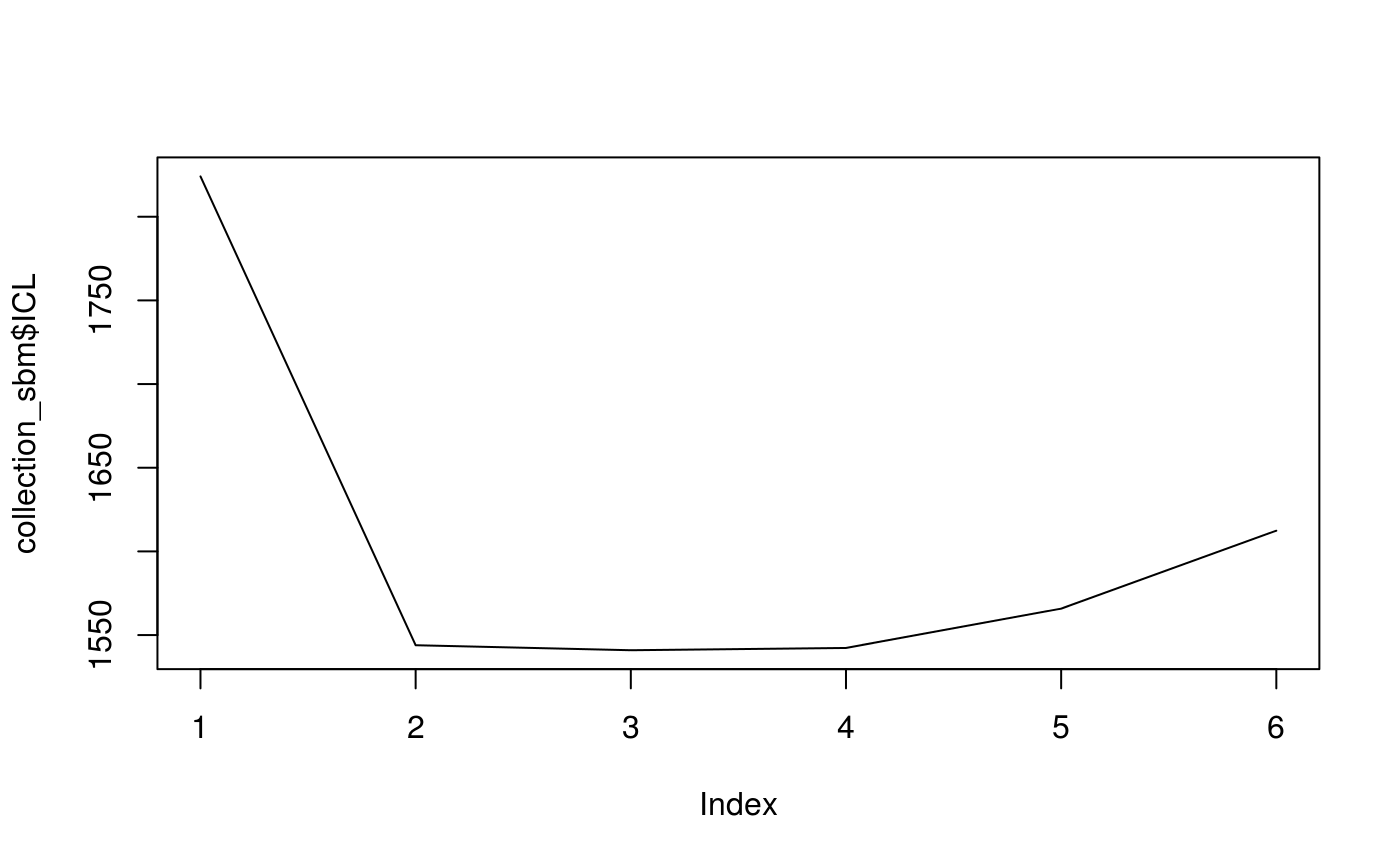
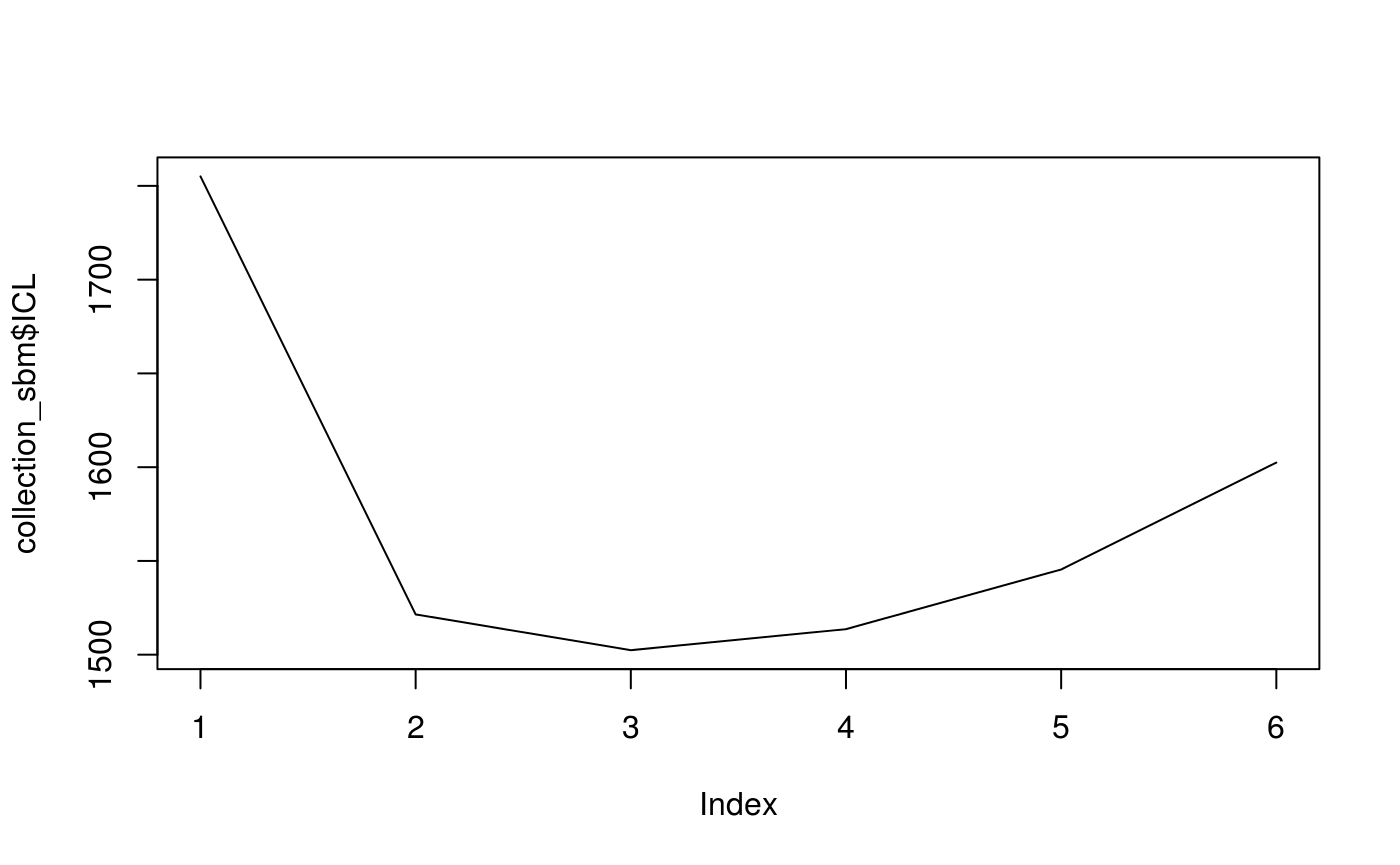
Deploy jchiquet/missSBM to github.com/jchiquet/missSBM.git:gh-pages

diff --git a/articles/introdution-to-misssbm.html b/articles/introdution-to-misssbm.html
@@ -86,7 +86,7 @@
       <h1>Introduction to missSBM</h1>
                         <h4 class="author">missSBM team</h4>
             
-            <h4 class="date">2019-03-28</h4>
+            <h4 class="date">2019-04-02</h4>
       
       <small class="dont-index">Source: <a href="https://github.com/jchiquet/missSBM/blob/master/vignettes/introdution-to-misssbm.Rmd"><code>vignettes/introdution-to-misssbm.Rmd</code></a></small>
       <div class="hidden name"><code>introdution-to-misssbm.Rmd</code></div>
@@ -175,7 +175,7 @@
 <div class="sourceCode" id="cb19"><pre class="sourceCode r"><code class="sourceCode r"><a class="sourceLine" id="cb19-1" data-line-number="1"><span class="kw"><a href="https://www.rdocumentation.org/packages/base/topics/table">table</a></span>(collection_sbm<span class="op">$</span>bestModel<span class="op">$</span>fittedSBM<span class="op">$</span>memberships)</a></code></pre></div>
 <pre><code>## 
 ##  1  2  3 
-## 35 15 42</code></pre>
+## 10 74  8</code></pre>
 <p>We compare with clusterings obtained with the fully observed network.</p>
 <div class="sourceCode" id="cb21"><pre class="sourceCode r"><code class="sourceCode r"><a class="sourceLine" id="cb21-1" data-line-number="1">collection_sbm_full &lt;-<span class="st"> </span>war_graphs<span class="op">$</span>beligerent <span class="op">%&gt;%</span><span class="st"> </span></a>
 <a class="sourceLine" id="cb21-2" data-line-number="2"><span class="st">  </span><span class="kw"><a href="https://www.rdocumentation.org/packages/igraph/topics/as_adjacency_matrix">as_adj</a></span>(<span class="dt">sparse =</span> <span class="ot">FALSE</span>) <span class="op">%&gt;%</span><span class="st"> </span></a>
@@ -185,7 +185,7 @@
 ##  Adjusting Variational EM for Stochastic Block Model
 ## 
 ##  Imputation assumes a 'node' network-sampling process</code></pre>
-<div class="sourceCode" id="cb23"><pre class="sourceCode r"><code class="sourceCode r"><a class="sourceLine" id="cb23-1" data-line-number="1"><span class="kw"><a href="../reference/smooth.html">smooth</a></span>(collection_sbm_full, <span class="st">"both"</span>, <span class="dt">iterates =</span> <span class="dv">2</span>)</a></code></pre></div>
+<div class="sourceCode" id="cb23"><pre class="sourceCode r"><code class="sourceCode r"><a class="sourceLine" id="cb23-1" data-line-number="1"><span class="kw"><a href="../reference/smooth.html">smooth</a></span>(collection_sbm_full, <span class="st">"both"</span>, <span class="dt">split =</span> <span class="st">"spectral"</span>, <span class="dt">iterates =</span> <span class="dv">2</span>)</a></code></pre></div>
 <pre><code>## 
 ##  Smoothing ICL
 ##    Going forward +++++
@@ -214,24 +214,23 @@ plot(collection_sbm_full2$ICL)
 <a class="sourceLine" id="cb27-4" data-line-number="4">  )</a></code></pre></div>
 <pre><code>##    
 ##      1  2  3  4
-##   1  0  0 35  0
-##   2  0 10  0  5
-##   3 29  0 13  0</code></pre>
-<!-- ```{r blockmodelscomparison} -->
-<!-- library(blockmodels) -->
-<!-- modsym <- BM_bernoulli("SBM_sym",as.matrix(get.adjacency(war_graphs$beligerent)),verbosity=0,plotting="") -->
-<!-- modsym$estimate() -->
-<!-- plot(modsym$ICL) -->
-<!-- mod <- BM_bernoulli("SBM",as.matrix(get.adjacency(war_graphs$beligerent)),verbosity=0,plotting="") -->
-<!-- mod$estimate() -->
-<!-- plot(mod$ICL) -->
-<!-- ``` -->
+##   1  5  0  5  0
+##   2 24 48  1  1
+##   3  0  0  4  4</code></pre>
+<div class="sourceCode" id="cb29"><pre class="sourceCode r"><code class="sourceCode r"><a class="sourceLine" id="cb29-1" data-line-number="1"><span class="kw"><a href="https://www.rdocumentation.org/packages/base/topics/library">library</a></span>(blockmodels)</a></code></pre></div>
+<pre><code>## Loading required package: Rcpp</code></pre>
+<pre><code>## Loading required package: parallel</code></pre>
+<pre><code>## Loading required package: digest</code></pre>
+<div class="sourceCode" id="cb33"><pre class="sourceCode r"><code class="sourceCode r"><a class="sourceLine" id="cb33-1" data-line-number="1">modsym &lt;-<span class="st"> </span><span class="kw"><a href="https://www.rdocumentation.org/packages/blockmodels/topics/BM_bernoulli">BM_bernoulli</a></span>(<span class="st">"SBM_sym"</span>,<span class="kw"><a href="https://www.rdocumentation.org/packages/base/topics/matrix">as.matrix</a></span>(<span class="kw"><a href="https://www.rdocumentation.org/packages/igraph/topics/as_adjacency_matrix">get.adjacency</a></span>(war_graphs<span class="op">$</span>beligerent)),<span class="dt">verbosity=</span><span class="dv">0</span>,<span class="dt">plotting=</span><span class="st">""</span>)</a>
+<a class="sourceLine" id="cb33-2" data-line-number="2">modsym<span class="op">$</span><span class="kw"><a href="../reference/estimate.html">estimate</a></span>()</a></code></pre></div>
+<div class="sourceCode" id="cb34"><pre class="sourceCode r"><code class="sourceCode r"><a class="sourceLine" id="cb34-1" data-line-number="1"><span class="kw"><a href="https://www.rdocumentation.org/packages/graphics/topics/plot">plot</a></span>(modsym<span class="op">$</span>ICL)</a></code></pre></div>
+<p><img src="introdution-to-misssbm_files/figure-html/blockmodelscomparison-1.png" width="700"></p>
 </div>
 <div id="taking-covariates-into-account" class="section level3">
 <h3 class="hasAnchor">
 <a href="#taking-covariates-into-account" class="anchor"></a>Taking covariates into account</h3>
-<div class="sourceCode" id="cb29"><pre class="sourceCode r"><code class="sourceCode r"><a class="sourceLine" id="cb29-1" data-line-number="1">mil =<span class="st"> </span><span class="kw"><a href="https://www.rdocumentation.org/packages/base/topics/load">load</a></span>(<span class="st">"../inst/covmilitarypower.Rdata"</span>)</a>
-<a class="sourceLine" id="cb29-2" data-line-number="2"><span class="kw"><a href="https://www.rdocumentation.org/packages/base/topics/cbind">cbind</a></span>(belmilpow,<span class="kw"><a href="https://www.rdocumentation.org/packages/igraph/topics/vertex_attr">get.vertex.attribute</a></span>(war_graphs<span class="op">$</span>beligerent)<span class="op">$</span>name) <span class="co">#  get military power for countries in beligerent network</span></a></code></pre></div>
+<div class="sourceCode" id="cb35"><pre class="sourceCode r"><code class="sourceCode r"><a class="sourceLine" id="cb35-1" data-line-number="1">mil =<span class="st"> </span><span class="kw"><a href="https://www.rdocumentation.org/packages/base/topics/load">load</a></span>(<span class="st">"../inst/covmilitarypower.Rdata"</span>)</a>
+<a class="sourceLine" id="cb35-2" data-line-number="2"><span class="kw"><a href="https://www.rdocumentation.org/packages/base/topics/cbind">cbind</a></span>(belmilpow,<span class="kw"><a href="https://www.rdocumentation.org/packages/igraph/topics/vertex_attr">get.vertex.attribute</a></span>(war_graphs<span class="op">$</span>beligerent)<span class="op">$</span>name) <span class="co">#  get military power for countries in beligerent network</span></a></code></pre></div>
 <pre><code>##       belmilpow                                                
 ##  [1,] "0.158091569035533"    "United States of America"        
 ##  [2,] "0.0115406"            "Canada"                          
@@ -325,7 +324,7 @@ plot(collection_sbm_full2$ICL)
 ## [90,] "0.00441002835820896"  "Philippines"                     
 ## [91,] "0.00750758817204301"  "Australia"                       
 ## [92,] "0.000803283870967742" "New Zealand"</code></pre>
-<div class="sourceCode" id="cb31"><pre class="sourceCode r"><code class="sourceCode r"><a class="sourceLine" id="cb31-1" data-line-number="1"><span class="kw"><a href="https://www.rdocumentation.org/packages/base/topics/cbind">cbind</a></span>(allmilpow,<span class="kw"><a href="https://www.rdocumentation.org/packages/igraph/topics/vertex_attr">get.vertex.attribute</a></span>(war_graphs<span class="op">$</span>alliance)<span class="op">$</span>name) <span class="co">#  get military power for countries in alliance network</span></a></code></pre></div>
+<div class="sourceCode" id="cb37"><pre class="sourceCode r"><code class="sourceCode r"><a class="sourceLine" id="cb37-1" data-line-number="1"><span class="kw"><a href="https://www.rdocumentation.org/packages/base/topics/cbind">cbind</a></span>(allmilpow,<span class="kw"><a href="https://www.rdocumentation.org/packages/igraph/topics/vertex_attr">get.vertex.attribute</a></span>(war_graphs<span class="op">$</span>alliance)<span class="op">$</span>name) <span class="co">#  get military power for countries in alliance network</span></a></code></pre></div>
 <pre><code>##        allmilpow                                                
 ##   [1,] "0.158091569035533"    "United States of America"        
 ##   [2,] "0.0115406"            "Canada"                          

diff --git a/reference/simulate.html b/reference/simulate.html
@@ -128,39 +128,35 @@
     
     </div>
 
-    <pre class="usage"><span class='fu'>simulate</span>(<span class='no'>N</span>, <span class='no'>alpha</span>, <span class='no'>pi</span>, <span class='kw'>directed</span> <span class='kw'>=</span> <span class='fl'>FALSE</span>, <span class='kw'>covarMatrix</span> <span class='kw'>=</span> <span class='kw'>NULL</span>,
-  <span class='kw'>covarParam</span> <span class='kw'>=</span> <span class='kw'>NULL</span>, <span class='kw'>covarSimilarity</span> <span class='kw'>=</span> <span class='no'>l1_similarity</span>)</pre>
+    <pre class="usage"><span class='fu'>simulate</span>(<span class='no'>nNodes</span>, <span class='no'>mixtureParam</span>, <span class='no'>connectParam</span>, <span class='kw'>directed</span> <span class='kw'>=</span> <span class='fl'>FALSE</span>,
+  <span class='kw'>covariates</span> <span class='kw'>=</span> <span class='kw'>NULL</span>, <span class='kw'>covarParam</span> <span class='kw'>=</span> <span class='kw'>NULL</span>)</pre>
     
     <h2 class="hasAnchor" id="arguments"><a class="anchor" href="#arguments"></a>Arguments</h2>
     <table class="ref-arguments">
     <colgroup><col class="name" /><col class="desc" /></colgroup>
     <tr>
-      <th>N</th>
+      <th>nNodes</th>
       <td><p>The number of nodes</p></td>
     </tr>
     <tr>
-      <th>alpha</th>
+      <th>mixtureParam</th>
       <td><p>The mixture parameters</p></td>
     </tr>
     <tr>
-      <th>pi</th>
-      <td><p>The connectivity matrix (either probabilities of inter and intra clusters )</p></td>
+      <th>connectParam</th>
+      <td><p>The connectivity matrix (inter/intra clusters probabilities. provided on a logit scale for a model with covariates)</p></td>
     </tr>
     <tr>
       <th>directed</th>
       <td><p>Boolean variable to indicate whether the network is directed or not. Default to <code>FALSE</code>.</p></td>
     </tr>
     <tr>
-      <th>covarMatrix</th>
-      <td><p>An optional matrix of covariates with dimension N x M (M covariates per node).</p></td>
+      <th>covariates</th>
+      <td><p>A list with M entries (the M covariates). Each entry of the list must be an N x N matrix.</p></td>
     </tr>
     <tr>
       <th>covarParam</th>
       <td><p>An optional vector of parameters associated with the covariates, with size M</p></td>
-    </tr>
-    <tr>
-      <th>covarSimilarity</th>
-      <td><p>An optional R x R -&gt; R function  to compute similarity between node covariates. Default is <code>l1_similarity</code>, that is, -abs(x-y).</p></td>
     </tr>
     </table>
     
@@ -178,18 +174,18 @@
 <span class='no'>directed</span> <span class='kw'>&lt;-</span> <span class='fl'>FALSE</span>
 <span class='no'>N</span> <span class='kw'>&lt;-</span> <span class='fl'>300</span> <span class='co'># number of nodes</span>
 <span class='no'>Q</span> <span class='kw'>&lt;-</span> <span class='fl'>3</span>   <span class='co'># number of clusters</span>
-<span class='no'>alpha</span> <span class='kw'>&lt;-</span> <span class='fu'><a href='https://www.rdocumentation.org/packages/base/topics/rep'>rep</a></span>(<span class='fl'>1</span>,<span class='no'>Q</span>)/<span class='no'>Q</span>     <span class='co'># mixture parameter</span>
-<span class='no'>pi</span> <span class='kw'>&lt;-</span> <span class='fu'><a href='https://www.rdocumentation.org/packages/base/topics/diag'>diag</a></span>(<span class='fl'>.45</span>,<span class='no'>Q</span>) + <span class='fl'>.05</span> <span class='co'># connectivity matrix</span>
-<span class='no'>gamma</span> <span class='kw'>&lt;-</span> <span class='fu'><a href='https://www.rdocumentation.org/packages/base/topics/Log'>log</a></span>(<span class='no'>pi</span>/(<span class='fl'>1</span>-<span class='no'>pi</span>)) <span class='co'># logit transform fo the model with covariates</span>
 <span class='no'>M</span> <span class='kw'>&lt;-</span> <span class='fl'>2</span> <span class='co'># two Gaussian covariates</span>
-<span class='no'>covarMatrix</span> <span class='kw'>&lt;-</span> <span class='fu'><a href='https://www.rdocumentation.org/packages/base/topics/matrix'>matrix</a></span>(<span class='fu'><a href='https://www.rdocumentation.org/packages/stats/topics/Normal'>rnorm</a></span>(<span class='no'>N</span>*<span class='no'>M</span>,<span class='kw'>mean</span> <span class='kw'>=</span> <span class='fl'>0</span>, <span class='kw'>sd</span> <span class='kw'>=</span> <span class='fl'>1</span>), <span class='no'>N</span>, <span class='no'>M</span>)
-<span class='no'>covarParam</span>  <span class='kw'>&lt;-</span> <span class='fu'><a href='https://www.rdocumentation.org/packages/stats/topics/Normal'>rnorm</a></span>(<span class='no'>M</span>, -<span class='fl'>1</span>, <span class='fl'>1</span>)
+<span class='no'>alpha</span> <span class='kw'>&lt;-</span> <span class='fu'><a href='https://www.rdocumentation.org/packages/base/topics/rep'>rep</a></span>(<span class='fl'>1</span>, <span class='no'>Q</span>)/<span class='no'>Q</span>     <span class='co'># mixture parameters</span>
+<span class='no'>pi</span> <span class='kw'>&lt;-</span> <span class='fu'><a href='https://www.rdocumentation.org/packages/base/topics/diag'>diag</a></span>(<span class='fl'>.45</span>, <span class='no'>Q</span>) + <span class='fl'>.05</span> <span class='co'># connectivity matrix</span>
+<span class='no'>eta</span> <span class='kw'>&lt;-</span> <span class='fu'><a href='https://www.rdocumentation.org/packages/stats/topics/Normal'>rnorm</a></span>(<span class='no'>M</span>, -<span class='fl'>1</span>, <span class='fl'>1</span>)  <span class='co'># covaraite parametes</span>
+<span class='no'>gamma</span> <span class='kw'>&lt;-</span> <span class='fu'><a href='https://www.rdocumentation.org/packages/base/topics/Log'>log</a></span>(<span class='no'>pi</span>/(<span class='fl'>1</span>-<span class='no'>pi</span>)) <span class='co'># logit transform of pi for the model with covariates</span>
+<span class='no'>X</span> <span class='kw'>&lt;-</span> <span class='fu'><a href='https://www.rdocumentation.org/packages/base/topics/lapply'>replicate</a></span>(<span class='no'>M</span>, <span class='fu'><a href='https://www.rdocumentation.org/packages/base/topics/matrix'>matrix</a></span>(<span class='fu'><a href='https://www.rdocumentation.org/packages/stats/topics/Normal'>rnorm</a></span>(<span class='no'>N</span> * <span class='no'>N</span> ,<span class='kw'>mean</span> <span class='kw'>=</span> <span class='fl'>0</span>, <span class='kw'>sd</span> <span class='kw'>=</span> <span class='fl'>1</span>), <span class='no'>N</span>, <span class='no'>N</span>), <span class='kw'>simplify</span> <span class='kw'>=</span> <span class='fl'>FALSE</span>)
 
 <span class='co'>## draw a SBM without covariates</span>
 <span class='no'>sbm</span> <span class='kw'>&lt;-</span> <span class='kw pkg'>missSBM</span><span class='kw ns'>::</span><span class='fu'><a href='https://www.rdocumentation.org/packages/missSBM/topics/simulate'>simulate</a></span>(<span class='no'>N</span>, <span class='no'>alpha</span>, <span class='no'>pi</span>, <span class='no'>directed</span>)
 
-<span class='co'>## draw a SBM model with covariates</span>
-<span class='no'>sbm_cov</span> <span class='kw'>&lt;-</span> <span class='kw pkg'>missSBM</span><span class='kw ns'>::</span><span class='fu'><a href='https://www.rdocumentation.org/packages/missSBM/topics/simulate'>simulate</a></span>(<span class='no'>N</span>, <span class='no'>alpha</span>, <span class='no'>gamma</span>, <span class='no'>directed</span>, <span class='no'>covarMatrix</span>, <span class='no'>covarParam</span>)</div><span class='co'># NOT RUN {</span>
+<span class='co'>## draw a SBM model with node-centred covariates</span>
+<span class='no'>sbm_cov</span> <span class='kw'>&lt;-</span> <span class='kw pkg'>missSBM</span><span class='kw ns'>::</span><span class='fu'><a href='https://www.rdocumentation.org/packages/missSBM/topics/simulate'>simulate</a></span>(<span class='no'>N</span>, <span class='no'>alpha</span>, <span class='no'>gamma</span>, <span class='no'>directed</span>, <span class='no'>X</span>, <span class='no'>eta</span>)</div><span class='co'># NOT RUN {</span>
 <span class='fu'><a href='https://www.rdocumentation.org/packages/graphics/topics/par'>par</a></span>(<span class='kw'>mfrow</span> <span class='kw'>=</span> <span class='fu'><a href='https://www.rdocumentation.org/packages/base/topics/c'>c</a></span>(<span class='fl'>1</span>,<span class='fl'>2</span>))
 <span class='fu'><a href='https://www.rdocumentation.org/packages/graphics/topics/plot'>plot</a></span>(<span class='no'>sbm</span>)
 <span class='fu'><a href='https://www.rdocumentation.org/packages/graphics/topics/plot'>plot</a></span>(<span class='no'>sbm_cov</span>)

diff --git a/reference/sample.html b/reference/sample.html
@@ -129,14 +129,15 @@
     </div>
 
     <pre class="usage"><span class='fu'>sample</span>(<span class='no'>adjacencyMatrix</span>, <span class='no'>sampling</span>, <span class='no'>parameters</span>, <span class='kw'>clusters</span> <span class='kw'>=</span> <span class='kw'>NULL</span>,
-  <span class='kw'>covarMatrix</span> <span class='kw'>=</span> <span class='kw'>NULL</span>, <span class='kw'>covarSimilarity</span> <span class='kw'>=</span> <span class='no'>l1_similarity</span>)</pre>
+  <span class='kw'>covariates</span> <span class='kw'>=</span> <span class='kw'>NULL</span>, <span class='kw'>similarity</span> <span class='kw'>=</span> <span class='no'>l1_similarity</span>)</pre>
     
     <h2 class="hasAnchor" id="arguments"><a class="anchor" href="#arguments"></a>Arguments</h2>
     <table class="ref-arguments">
     <colgroup><col class="name" /><col class="desc" /></colgroup>
     <tr>
       <th>adjacencyMatrix</th>
-      <td><p>The N x N adjacency matrix of the network to sample</p></td>
+      <td><p>The N x N adjacency matrix of the network to sample. If <code>adjacencyMatrix</code> is symmetric,
+we assume an undirected network with no loop; otherwise the network is assumed directed.</p></td>
     </tr>
     <tr>
       <th>sampling</th>
@@ -151,12 +152,14 @@
       <td><p>An optional clustering membership vector of the nodes, only necessary for class sampling</p></td>
     </tr>
     <tr>
-      <th>covarMatrix</th>
-      <td><p>An optional matrix of covariates with dimension N x M (M covariates per node).</p></td>
+      <th>covariates</th>
+      <td><p>A list with M entries (the M covariates). If the covariates are node-centred, each entry of <code>covariates</code>
+must be a size-N vector;  if the covariates are dyad-centred, each entry of <code>covariates</code> must be N x N matrix.</p></td>
     </tr>
     <tr>
-      <th>covarSimilarity</th>
-      <td><p>An optional R x R -&gt; R function to compute the similarity between node covariates. The default internal function missSBM:::l1_smilarity is based on the oppositite of the absolute difference between two vector of covariates.</p></td>
+      <th>similarity</th>
+      <td><p>An optional R x R -&gt; R function to compute similarities between node covariates. Default is <code>l1_similarity</code>, that is, -abs(x-y).
+Only relevent when the covariates are node-centered (i.e. <code>covariates</code> is a list of size-N vectors).</p></td>
     </tr>
     </table>
     

diff --git a/reference/missSBM_fit.html b/reference/missSBM_fit.html
@@ -6,7 +6,7 @@
 <meta http-equiv="X-UA-Compatible" content="IE=edge">
 <meta name="viewport" content="width=device-width, initial-scale=1.0">
 
-<title>R6 Class definition of an SBM-fit — missingSBM_fit • missSBM</title>
+<title>R6 Class definition of an SBM-fit — missSBM_fit • missSBM</title>
 
 <!-- jquery -->
 <script src="https://cdnjs.cloudflare.com/ajax/libs/jquery/3.3.1/jquery.min.js" integrity="sha256-FgpCb/KJQlLNfOu91ta32o/NMZxltwRo8QtmkMRdAu8=" crossorigin="anonymous"></script>
@@ -30,7 +30,7 @@
 
 
 
-<meta property="og:title" content="R6 Class definition of an SBM-fit — missingSBM_fit" />
+<meta property="og:title" content="R6 Class definition of an SBM-fit — missSBM_fit" />
 
 <meta property="og:description" content="This class is designed to adjust a Stochastic Block Model on a network with missing entries." />
 <meta name="twitter:card" content="summary" />
@@ -118,8 +118,8 @@
   <div class="col-md-9 contents">
     <div class="page-header">
     <h1>R6 Class definition of an SBM-fit</h1>
-    <small class="dont-index">Source: <a href='https://github.com/jchiquet/missSBM/blob/master/R/missingSBM_fit-Class.R'><code>R/missingSBM_fit-Class.R</code></a></small>
-    <div class="hidden name"><code>missingSBM_fit.Rd</code></div>
+    <small class="dont-index">Source: <a href='https://github.com/jchiquet/missSBM/blob/master/R/missSBM_fit-Class.R'><code>R/missSBM_fit-Class.R</code></a></small>
+    <div class="hidden name"><code>missSBM_fit.Rd</code></div>
     </div>
 
     <div class="ref-description">
@@ -128,7 +128,7 @@
     
     </div>
 
-    <pre class="usage"><span class='no'>missingSBM_fit</span></pre>
+    <pre class="usage"><span class='no'>missSBM_fit</span></pre>
         
     <h2 class="hasAnchor" id="format"><a class="anchor" href="#format"></a>Format</h2>
 

diff --git a/reference/estimate.html b/reference/estimate.html
@@ -180,7 +180,7 @@
     
     <h2 class="hasAnchor" id="see-also"><a class="anchor" href="#see-also"></a>See also</h2>
 
-    <div class='dont-index'><p><code><a href='sample.html'>sample</a></code>, <code><a href='simulate.html'>simulate</a></code>, <code><a href='missSBM_collection.html'>missSBM_collection</a></code> and <code><a href='missingSBM_fit.html'>missingSBM_fit</a></code>.</p></div>
+    <div class='dont-index'><p><code><a href='sample.html'>sample</a></code>, <code><a href='simulate.html'>simulate</a></code>, <code><a href='missSBM_collection.html'>missSBM_collection</a></code> and <code><a href='missSBM_fit.html'>missSBM_fit</a></code>.</p></div>
     
 
     <h2 class="hasAnchor" id="examples"><a class="anchor" href="#examples"></a>Examples</h2>

diff --git a/reference/index.html b/reference/index.html
@@ -173,12 +173,6 @@
       </tr><tr>
         
         <td>
-          <p><code><a href="missingSBM_fit.html">missingSBM_fit</a></code> </p>
-        </td>
-        <td><p>R6 Class definition of an SBM-fit</p></td>
-      </tr><tr>
-        
-        <td>
           <p><code><a href="SBM_fit.html">SBM_fit</a></code> </p>
         </td>
         <td><p>R6 Class definition of an SBM-fit</p></td>
